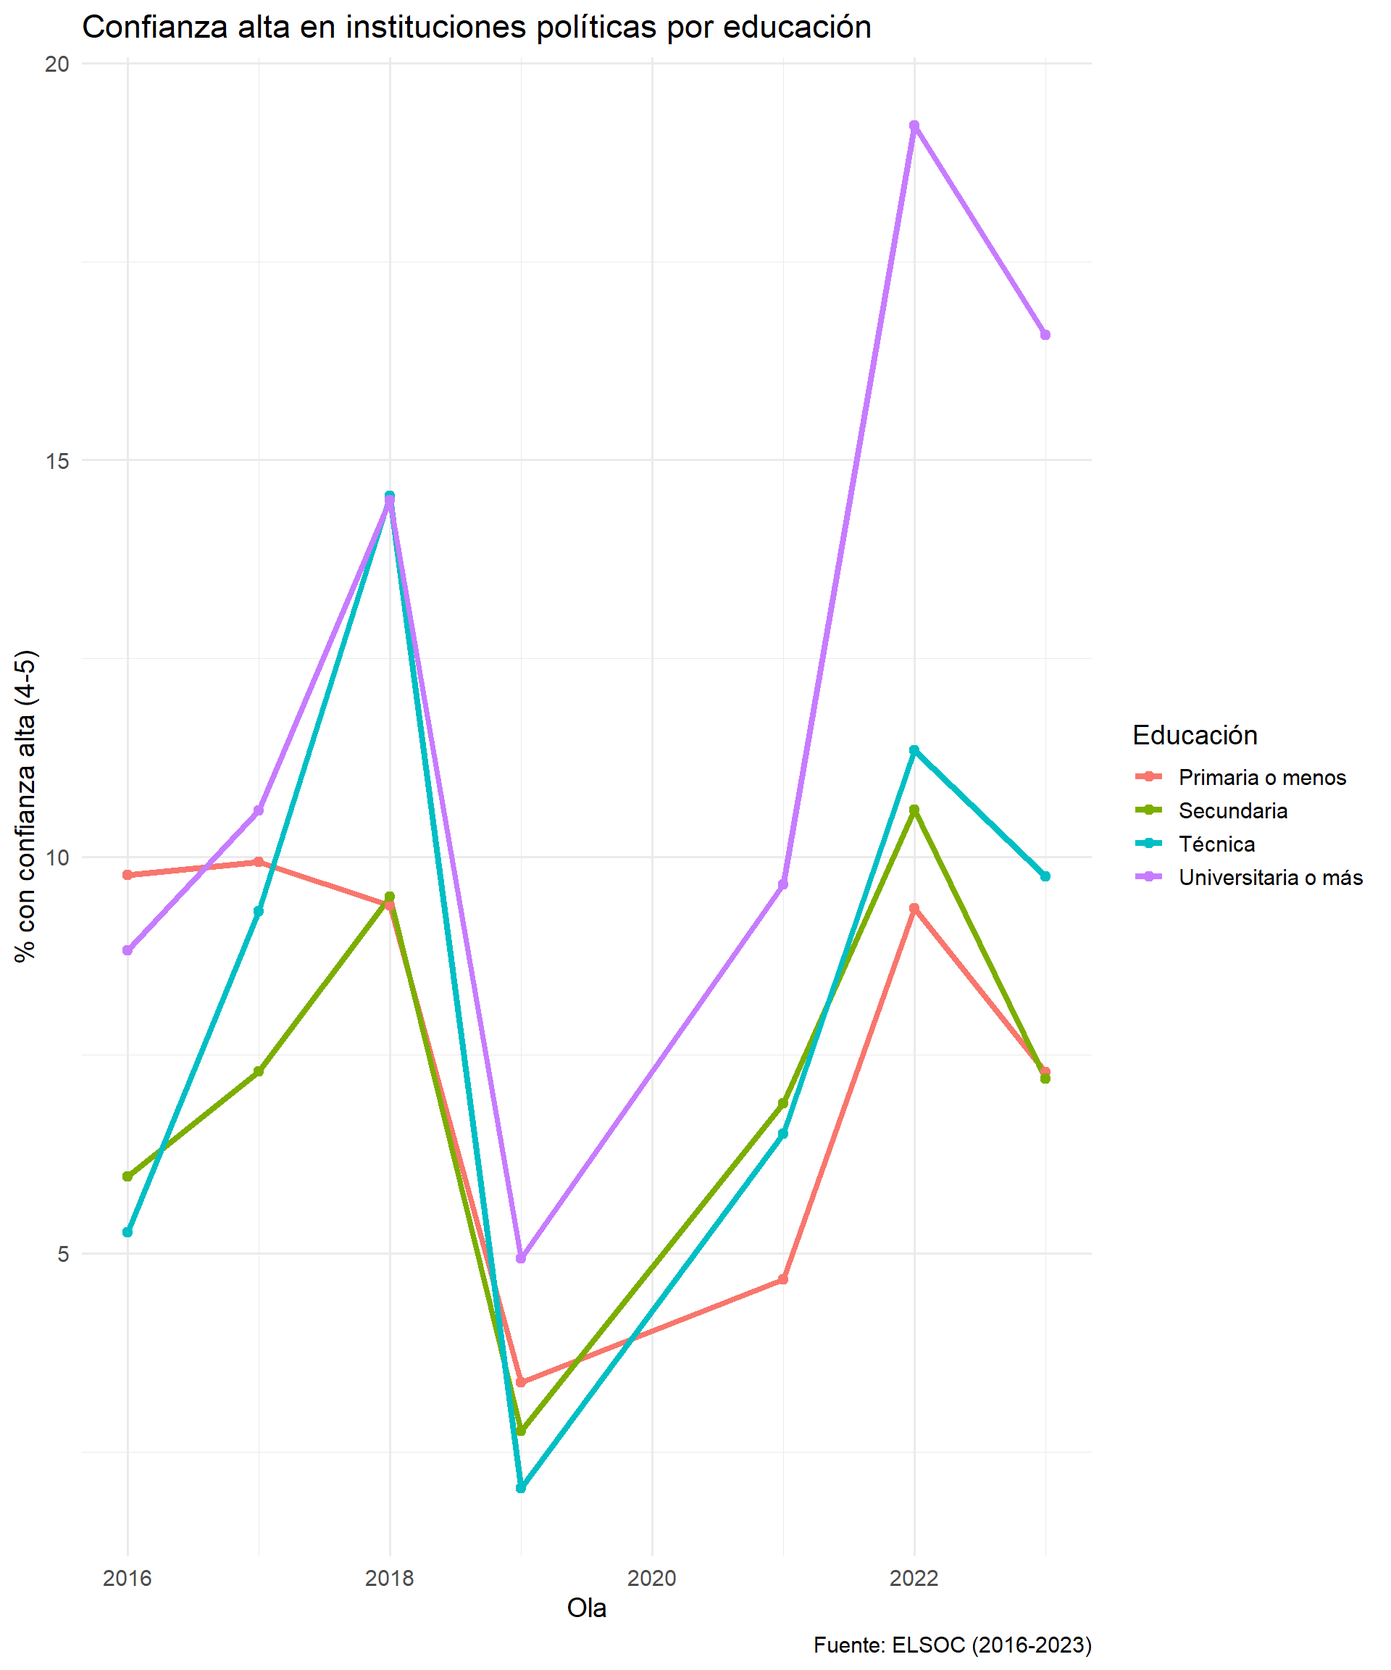
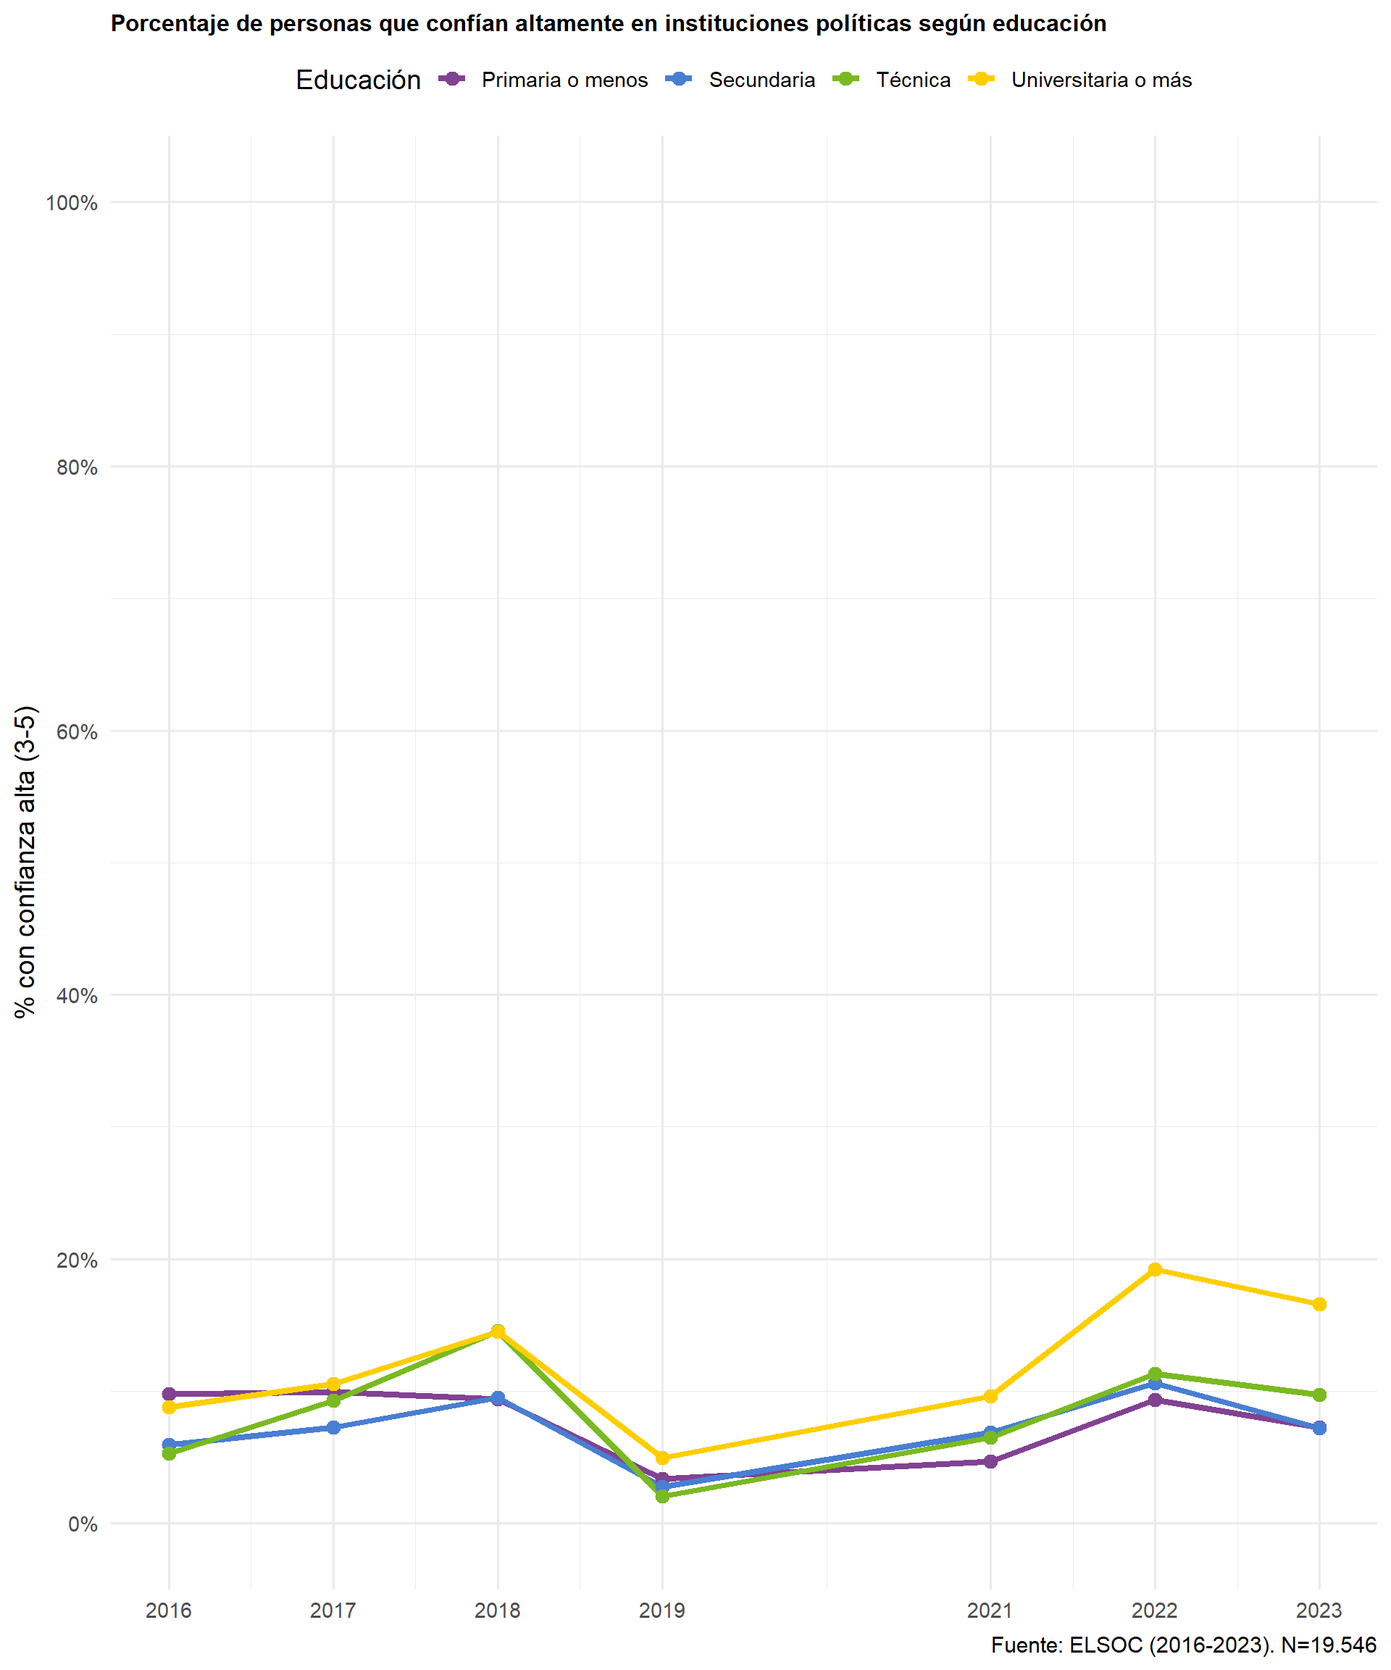
update-nota-foro-coes

diff --git a/nota-foro/nota-foro-coes.html b/nota-foro/nota-foro-coes.html
@@ -66,14 +66,15 @@ ul.task-list li input[type="checkbox"] {
 
 <section id="alcances-de-la-nota" class="level1">
 <h1>Alcances de la Nota</h1>
-<p>La cohesión social es clave para la vida colectiva y para orientar políticas públicas, pero su medición ha sido fragmentaria. El Observatorio de Cohesión Social (OCS) propone un marco minimalista, siguiendo a Chan et al.&nbsp;(2006), que distingue entre cohesión horizontal (vínculos entre personas y territorios) y cohesión vertical (vínculos con las instituciones), operacionalizable con datos de la Encuesta Longitudinal Social de Chile (ELSOC). Tres antecedentes orientan y complementan esta propuesta: las comparaciones regionales del Visualizador de América Latina (OCS-COES, 2025); las propuestas nacionales basadas en ELSOC, como la de Castillo, Iturra y Carrasco (2021); y la Radiografía de la Cohesión de COES (2024).</p>
-<p>Este reporte presenta la nueva propuesta del OCS para medir la cohesión social. Su valor agregado radica en la autonomía de la seguridad como dimensión, una tipología explícita de solidaridades, la especificación del ámbito institucional y la integración de prácticas y actitudes, mejorando la comparabilidad y el seguimiento longitudinal. Con este marco, ofrecemos análisis que validan la estructura propuesta y muestran brechas y trayectorias por grupo social.</p>
+<p>La cohesión social es clave para la vida colectiva, para la estabilidad de la sociedad y para fortalecer el lazo social; poder medirla empíricamente es, por tanto, fundamental. Sin embargo, su medición sigue siendo fragmentaria a nivel internacional y, en Chile, hasta antes del OCS no existía un esfuerzo sistemático en esta línea. El Observatorio de Cohesión Social (OCS) propone un marco minimalista, siguiendo a Chan et al.&nbsp;(2006), que distingue entre cohesión horizontal (vínculos entre personas) y cohesión vertical (vínculos con las instituciones), operacionalizable con datos de la Encuesta Longitudinal Social de Chile (ELSOC). Tres antecedentes orientan y complementan esta propuesta: las comparaciones y medición de cohesión social para América Latina del OCS (2025); las propuestas nacionales basadas en ELSOC, como la de Castillo, Iturra y Carrasco (2021); y la Radiografía de la Cohesión de COES (2024).</p>
+<p>Este reporte presenta la nueva propuesta del OCS para medir la cohesión social en Chile con datos ELSOC. Su valor agregado radica en la autonomía de la seguridad como dimensión, una tipología explícita de solidaridades, la especificación del ámbito institucional y la integración de prácticas y actitudes, mejorando la comparabilidad y el seguimiento longitudinal. Con este marco, ofrecemos análisis que validan la estructura propuesta y muestran brechas y trayectorias por grupo social.</p>
 </section>
 <section id="nueva-propuesta-de-medición-con-elsoc" class="level1">
 <h1>Nueva Propuesta de medición con ELSOC</h1>
 <p><img src="images/propuesta-ver-elsoc.png" class="img-fluid" width="300"> <img src="images/propuesta-hor-elsoc.png" class="img-fluid" width="300"></p>
 <p>La nueva propuesta del OCS integra y expande las mediciones previas con innovaciones que permiten capturar con mayor precisión las dinámicas de cohesión en Chile, manteniendo coherencia con el marco minimalista bidimensional.</p>
-<p>En este sentido, la propuesta organiza la cohesión social en dos planos. En lo horizontal, distingue tres áreas: seguridad (objetiva y subjetiva), vínculos territoriales (pertenencia e identificación vs.&nbsp;satisfacción barrial) y redes sociales (confianza interpersonal, prosocialidad y ayuda económica). En lo vertical, define cuatro áreas: confianza en instituciones políticas; prácticas y actitudes políticas (participación, autoeficacia e interés); preferencias por sistema político (autoritarismo vs.&nbsp;democracia); y justicia distributiva (rol del mercado en derechos).</p>
+<p>En este sentido, la propuesta organiza la cohesión social en dos planos o áreas, compuestos por dimensiones que a su vez se desagregan en subdimensiones. El plano horizontal comprende 3 dimensiones: seguridad, vínculos territoriales y redes sociales; cada una se operacionaliza mediante subdimensiones específicas: seguridad objetiva y subjetiva; pertenencia/identificación y satisfacción barrial; y confianza interpersonal, prosocialidad y ayuda económica.</p>
+<p>El plano vertical comprende 4 dimensiones: confianza en instituciones políticas, prácticas y actitudes políticas, preferencias por sistema político y justicia distributiva; sus subdimensiones incluyen participación, autoeficacia e interés (en prácticas/actitudes), autoritarismo y democracia (en preferencias por sistema) y preferencias sobre la provisión del bienestar social por el mercado (en justicia distributiva).</p>
 </section>
 <section id="valor-agregado-de-la-nueva-propuesta" class="level1">
 <h1>Valor Agregado de la Nueva Propuesta</h1>
@@ -93,79 +94,76 @@ ul.task-list li input[type="checkbox"] {
 </ol>
 <p>Esta arquitectura integra condiciones objetivas, percepciones subjetivas, prácticas sociales y orientaciones normativas, manteniendo coherencia con el marco minimalista de Chan et al.&nbsp;(2006) mientras aprovecha las posibilidades que ofrece ELSOC para una medición comprehensiva de la cohesión social en Chile.</p>
 </section>
-<section id="cohesión-social-en-tiempos-de-desafección-en-chile-un-análisis-con-una-propuesta-desde-elsoc" class="level1">
-<h1>Cohesión Social en tiempos de desafección en Chile: Un análisis con una propuesta desde ELSOC</h1>
+<section id="análisis-con-la-nueva-propuesta-elsoc" class="level1">
+<h1>Análisis con la nueva propuesta ELSOC</h1>
 <p>Con la nueva propuesta de medición, presentamos un análisis empírico con ELSOC que aplica los indicadores, evalúa su estructura factorial y describe su variación en el tiempo y entre grupos sociales. Este ejercicio busca validar la propuesta teórica, identificar tendencias de la cohesión social en Chile y aportar evidencia sobre las dinámicas de la cohesión horizontal (vínculos entre personas y territorio) y vertical (relación ciudadano–instituciones). En conjunto, los resultados permiten confirmar la pertinencia del enfoque y generar conocimiento sustantivo sobre el estado y la evolución de la cohesión social en el período cubierto por ELSOC.</p>
 <section id="confianza-en-instituciones-políticas" class="level2">
 <h2 class="anchored" data-anchor-id="confianza-en-instituciones-políticas">Confianza en Instituciones Políticas</h2>
 <p>Los gráficos de confianza en instituciones políticas revelan patrones diferenciados según las variables sociodemográficas analizadas:</p>
 <div class="cell">
 <div class="cell-output-display">
-<div id="fig-confianza-inst-pol-1" class="quarto-float quarto-figure quarto-figure-center anchored" width="960">
+<div id="fig-confianza-inst-pol-1" class="quarto-float quarto-figure quarto-figure-center anchored">
 <figure class="quarto-float quarto-float-fig figure">
 <div aria-describedby="fig-confianza-inst-pol-1-caption-0ceaefa1-69ba-4598-a22c-09a6ac19f8ca">
-<img src="nota-foro-coes_files/figure-html/fig-confianza-inst-pol-1.png" id="fig-confianza-inst-pol-1" class="img-fluid figure-img" width="960">
+<img src="nota-foro-coes_files/figure-html/fig-confianza-inst-pol-1.png" class="img-fluid figure-img" width="960">
 </div>
-<figcaption class="quarto-float-caption-bottom quarto-float-caption quarto-float-fig quarto-uncaptioned" id="fig-confianza-inst-pol-1-caption-0ceaefa1-69ba-4598-a22c-09a6ac19f8ca">
-Figura&nbsp;1
+<figcaption class="quarto-float-caption-bottom quarto-float-caption quarto-float-fig" id="fig-confianza-inst-pol-1-caption-0ceaefa1-69ba-4598-a22c-09a6ac19f8ca">
+Figura&nbsp;1: Porcentaje de personas que confían altamente en instituciones políticas
 </figcaption>
 </figure>
 </div>
 </div>
 <div class="cell-output-display">
-<div id="fig-confianza-inst-pol-2" class="quarto-float quarto-figure quarto-figure-center anchored" width="960">
+<div id="fig-confianza-inst-pol-2" class="quarto-float quarto-figure quarto-figure-center anchored">
 <figure class="quarto-float quarto-float-fig figure">
 <div aria-describedby="fig-confianza-inst-pol-2-caption-0ceaefa1-69ba-4598-a22c-09a6ac19f8ca">
-<img src="nota-foro-coes_files/figure-html/fig-confianza-inst-pol-2.png" id="fig-confianza-inst-pol-2" class="img-fluid figure-img" width="960">
+<img src="nota-foro-coes_files/figure-html/fig-confianza-inst-pol-2.png" class="img-fluid figure-img" width="960">
 </div>
-<figcaption class="quarto-float-caption-bottom quarto-float-caption quarto-float-fig quarto-uncaptioned" id="fig-confianza-inst-pol-2-caption-0ceaefa1-69ba-4598-a22c-09a6ac19f8ca">
-Figura&nbsp;2
+<figcaption class="quarto-float-caption-bottom quarto-float-caption quarto-float-fig" id="fig-confianza-inst-pol-2-caption-0ceaefa1-69ba-4598-a22c-09a6ac19f8ca">
+Figura&nbsp;2: Porcentaje de personas que confían altamente en instituciones políticas
 </figcaption>
 </figure>
 </div>
 </div>
 </div>
-<p>Se observa una marcada estratificación en las trayectorias de confianza. El grupo de mayores ingresos (10%) mantiene consistentemente los niveles más altos de confianza a lo largo del período, iniciando cerca del 10% en 2016, experimentando un notable peak cercano al 20% en 2018, seguido de una caída dramática hasta aproximadamente 6% en 2019, para luego recuperarse sostenidamente hasta alcanzar valores cercanos al 18% en 2023. Los grupos de ingresos medios (50%) e ingresos bajos (40%) muestran trayectorias más cercanas entre sí, aunque con una clara diferenciación: ambos inician en torno al 7%, alcanzan peaks moderados en 2018 (alrededor de 11%), experimentan caídas pronunciadas en 2019 (llegando a 2-3%), y muestran recuperaciones diferenciadas en el período posterior, con los ingresos medios recuperándose más que los bajos, alcanzando aproximadamente 10% y 7% respectivamente en 2023.</p>
-<p>La diferenciación por educación muestra que el grupo con educación universitaria o más exhibe un comportamiento distintivo, partiendo de niveles moderados (~8-9% en 2016) experimentando un peak notable en 2018 (~14%), una caída dramática en 2019 (~5%), seguida de una recuperación extraordinaria que culmina en valores cercanos al 19% en 2022, los más altos de todos los grupos educativos. Los grupos de educación técnica y secundaria presentan trayectorias relativamente similares y moderadas, oscilando entre 5% y 11% a lo largo del período. El grupo con educación primaria o menos muestra los niveles más bajos y estables, manteniéndose generalmente entre 5% y 10%, con una leve recuperación hacia el final del período.</p>
-<p>Destaca el año 2019 como punto de inflexión crítico, donde todos los grupos experimentan una caída pronunciada en la confianza institucional, coincidiendo con el estallido social. La recuperación posterior es diferenciada según el grupo socioeconómico, siendo más pronunciada entre los sectores de mayores ingresos y mayor educación.</p>
+<p>Se observa una marcada estratificación socioeconómica. Los grupos de mayores ingresos y educación universitaria mantienen consistentemente niveles más altos de confianza, con peaks en 2018 (~20% y ~14% respectivamente). El año 2019 marca un punto de inflexión crítico donde todos los grupos experimentan caídas pronunciadas (llegando a 2-6%), coincidiendo con el estallido social. La recuperación posterior es diferenciada: los sectores aventajados alcanzan en 2023 niveles cercanos o superiores a los de 2016 (~18-19%), mientras que los grupos de menores ingresos y educación básica muestran recuperaciones más moderadas (~7-10%).</p>
 </section>
 <section id="seguridad-pública" class="level2">
 <h2 class="anchored" data-anchor-id="seguridad-pública">Seguridad Pública</h2>
 <p>Los gráficos de seguridad alta (evaluaciones 4-5 en la escala) muestran dinámicas distintas pero igualmente reveladoras:</p>
 <div class="cell">
 <div class="cell-output-display">
-<div id="fig-seguridad-publica-1" class="quarto-float quarto-figure quarto-figure-center anchored" width="960">
+<div id="fig-seguridad-publica-1" class="quarto-float quarto-figure quarto-figure-center anchored">
 <figure class="quarto-float quarto-float-fig figure">
 <div aria-describedby="fig-seguridad-publica-1-caption-0ceaefa1-69ba-4598-a22c-09a6ac19f8ca">
-<img src="nota-foro-coes_files/figure-html/fig-seguridad-publica-1.png" id="fig-seguridad-publica-1" class="img-fluid figure-img" width="960">
+<img src="nota-foro-coes_files/figure-html/fig-seguridad-publica-1.png" class="img-fluid figure-img" width="960">
 </div>
-<figcaption class="quarto-float-caption-bottom quarto-float-caption quarto-float-fig quarto-uncaptioned" id="fig-seguridad-publica-1-caption-0ceaefa1-69ba-4598-a22c-09a6ac19f8ca">
-Figura&nbsp;3
+<figcaption class="quarto-float-caption-bottom quarto-float-caption quarto-float-fig" id="fig-seguridad-publica-1-caption-0ceaefa1-69ba-4598-a22c-09a6ac19f8ca">
+Figura&nbsp;3: Porcentaje de personas que sienten un alto nivel de seguridad pública
 </figcaption>
 </figure>
 </div>
 </div>
 <div class="cell-output-display">
-<div id="fig-seguridad-publica-2" class="quarto-float quarto-figure quarto-figure-center anchored" width="960">
+<div id="fig-seguridad-publica-2" class="quarto-float quarto-figure quarto-figure-center anchored">
 <figure class="quarto-float quarto-float-fig figure">
 <div aria-describedby="fig-seguridad-publica-2-caption-0ceaefa1-69ba-4598-a22c-09a6ac19f8ca">
-<img src="nota-foro-coes_files/figure-html/fig-seguridad-publica-2.png" id="fig-seguridad-publica-2" class="img-fluid figure-img" width="960">
+<img src="nota-foro-coes_files/figure-html/fig-seguridad-publica-2.png" class="img-fluid figure-img" width="960">
 </div>
-<figcaption class="quarto-float-caption-bottom quarto-float-caption quarto-float-fig quarto-uncaptioned" id="fig-seguridad-publica-2-caption-0ceaefa1-69ba-4598-a22c-09a6ac19f8ca">
-Figura&nbsp;4
+<figcaption class="quarto-float-caption-bottom quarto-float-caption quarto-float-fig" id="fig-seguridad-publica-2-caption-0ceaefa1-69ba-4598-a22c-09a6ac19f8ca">
+Figura&nbsp;4: Porcentaje de personas que sienten un alto nivel de seguridad pública
 </figcaption>
 </figure>
 </div>
 </div>
 </div>
-<p>Las trayectorias de percepción de seguridad alta presentan un patrón de convergencia-divergencia temporal. Entre 2016 y 2018, los tres grupos de ingreso muestran una notable convergencia, con todos experimentando incrementos desde niveles iniciales diferenciados (40% de menores ingresos en ~39%, 50% intermedios en ~41%, y 10% mayores ingresos en ~49%) hasta alcanzar peaks cercanos entre sí alrededor de 2019 (~47-50% para bajos, ~57% para medios, y ~61% para altos). Posterior a 2019, se observa una caída generalizada pero diferenciada, con el grupo de mayores ingresos manteniéndose consistentemente por encima (llegando a ~61% en 2023), seguido por ingresos medios (~52%), y menores ingresos (~43%). Esta estratificación sugiere que, si bien la percepción de seguridad mejoró para todos durante el período 2016-2019, las diferencias estructurales por nivel socioeconómico se mantienen e incluso se amplían en el período post-estallido.</p>
-<p>Ambos indicadores —confianza institucional y seguridad pública— muestran el año 2019 como momento crítico de cambio. Sin embargo, mientras la confianza institucional experimenta caídas dramáticas con recuperaciones diferenciadas, la seguridad pública muestra dinámicas más graduales. La estratificación por nivel socioeconómico y educativo es consistente en ambas dimensiones, sugiriendo que las experiencias de cohesión vertical están fuertemente condicionadas por la posición social. Los sectores más aventajados (mayores ingresos, educación universitaria) no solo parten de niveles más altos, sino que también muestran mayor capacidad de recuperación post-crisis, evidenciando una experiencia diferenciada de la cohesión social en Chile.</p>
+<p>Las trayectorias de seguridad muestran convergencia en 2016–2018 y peaks similares en 2019 (≈47–50% bajos, ≈57% medios, ≈61% altos). Tras 2019 hay una caída generalizada con estratificación persistente: en 2023 altos ≈61%, medios ≈52% y bajos ≈43%. En conjunto con la confianza institucional, 2019 es un punto de inflexión; la seguridad cambia de forma más gradual y las brechas por estatus (ingreso/educación) se mantienen o se amplían, con niveles sistemáticamente mayores entre los grupos aventajados.</p>
 </section>
 </section>
 <section id="a-modo-de-cierre" class="level1">
 <h1>A modo de cierre</h1>
-<p>Esta nueva propuesta del OCS ofrece una medición más precisa y útil de la cohesión social en Chile, alineada con un marco minimalista que diferencia con claridad entre cohesión horizontal y vertical, y entre condiciones objetivas, percepciones, prácticas y orientaciones normativas. Al aprovechar las capacidades longitudinales de ELSOC e integrar aprendizajes previos, incorpora innovaciones sustantivas —autonomía de la seguridad, tipología de solidaridades, especificación institucional e inclusión de orientaciones autoritarias— que fortalecen el valor analítico y comparativo. Los resultados empíricos confirman 2019 como punto de quiebre en la cohesión vertical, con recuperaciones heterogéneas, y muestran que la seguridad evoluciona de forma más gradual. Además, la estratificación por ingresos y educación sugiere experiencias diferenciadas de cohesión, con ventajas sistemáticas para los grupos de mayor estatus.</p>
-<p>Estas evidencias refuerzan la necesidad de un monitoreo continuo a los principales puntos sensibles de la cohesión, en paralelo, reconstruyan confianza institucional y mejoren condiciones de seguridad con estrategias diferenciadas. Los próximos pasos incluyen evaluar invarianza de medición en el tiempo y entre grupos, consolidar series comparables y traducir los indicadores en herramientas de seguimiento (tableros, alertas tempranas) para el debate público y la evaluación de políticas. Con ello, el sistema de medición podrá actualizarse de forma permanente y aportar evidencia rigurosa y oportuna sobre la evolución de la cohesión social en Chile.</p>
+<p>Esta nueva propuesta del OCS ofrece una medición más precisa y útil de la cohesión social en Chile dentro de un marco minimalista que distingue con claridad entre cohesión horizontal y vertical e integra condiciones objetivas, percepciones, prácticas y orientaciones normativas. Sus principales innovaciones son: (i) autonomía de la seguridad; (ii) tipología explícita de solidaridades; (iii) especificación del ámbito institucional; y (iv) incorporación de orientaciones autoritarias. Los resultados empíricos confirman 2019 como punto de quiebre de la cohesión vertical, con recuperaciones heterogéneas; muestran que la seguridad evoluciona de forma más gradual; y evidencian estratificación por ingresos y educación, con ventajas sistemáticas para los grupos de mayor estatus.</p>
+<p>Estas evidencias refuerzan la necesidad de: (i) monitoreo continuo de los puntos sensibles de la cohesión; (ii) reconstruir la confianza institucional; y (iii) mejorar la seguridad mediante estrategias diferenciadas. Los próximos pasos comprenden evaluar la invarianza de medición en el tiempo y entre grupos, consolidar series comparables y traducir los indicadores en herramientas de seguimiento (tableros, alertas tempranas) para informar el debate público y la evaluación de políticas. Así, el sistema de medición podrá actualizarse de forma permanente y entregar evidencia rigurosa y oportuna sobre la evolución de la cohesión social en Chile.</p>
 </section>
 
 </main>
